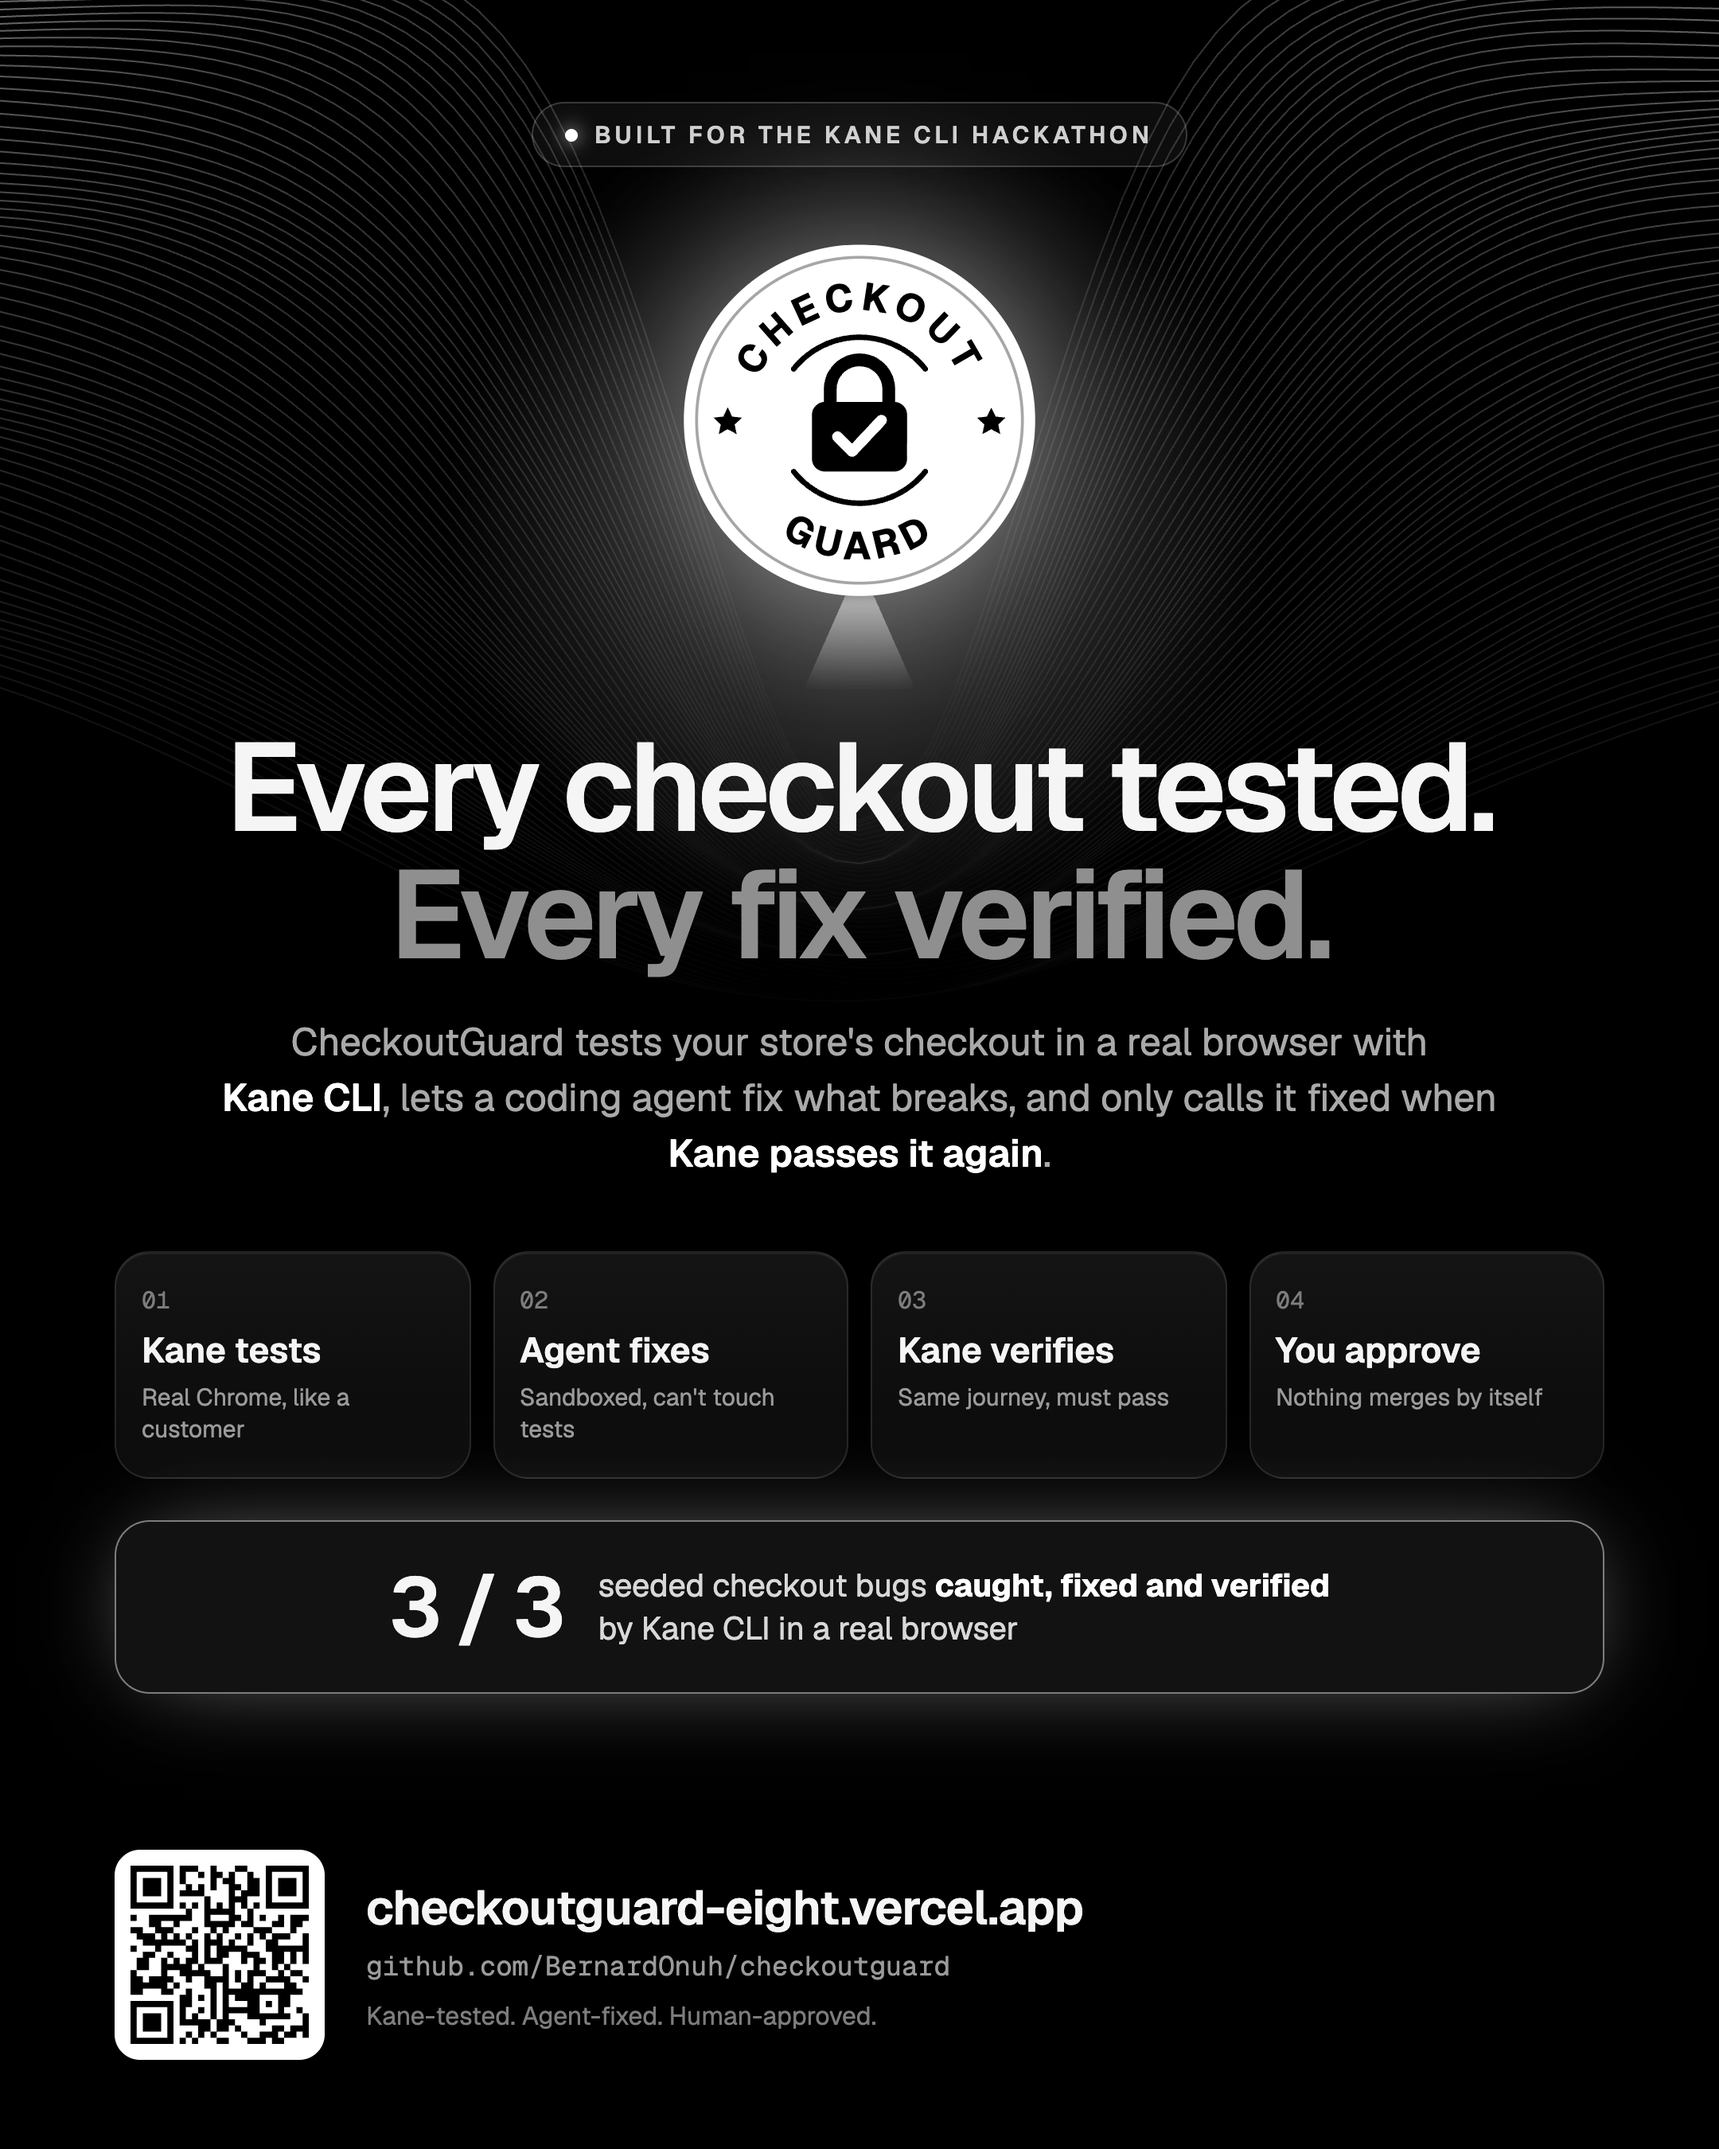
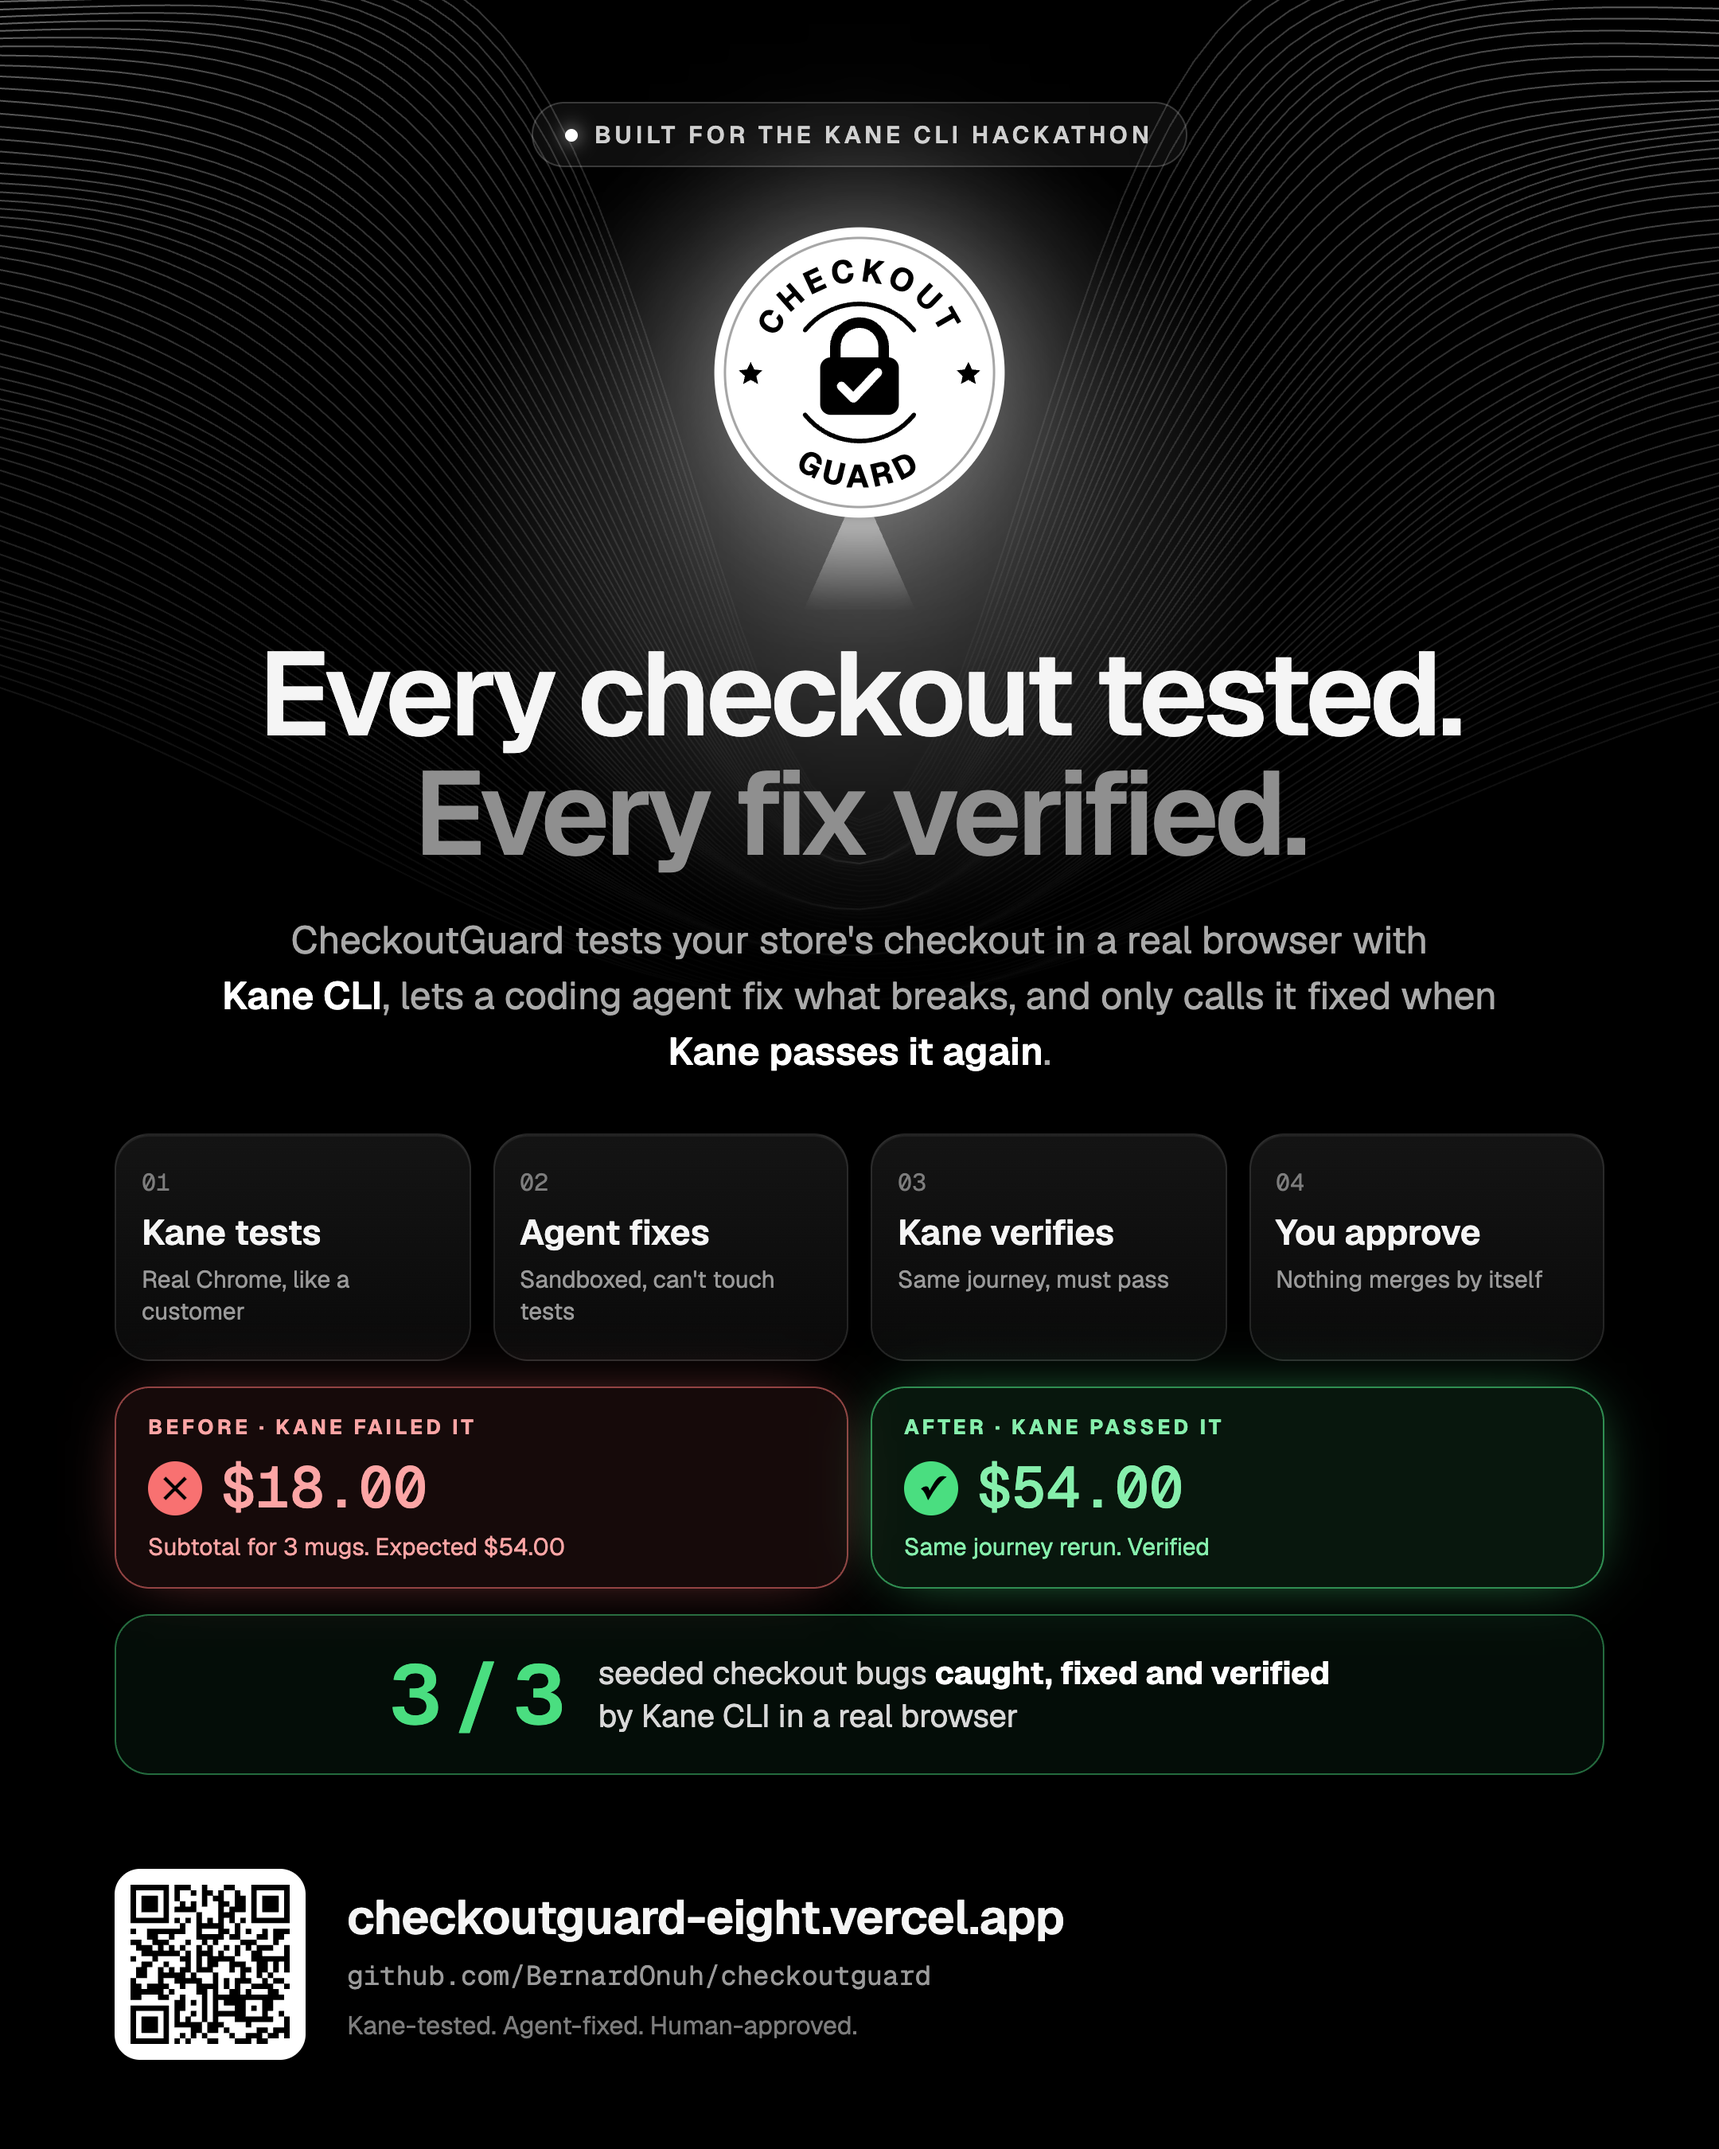
Flyers: red for Kane's failed run, green for the verified rerun

diff --git a/docs/brand/checkoutguard-flyer.html b/docs/brand/checkoutguard-flyer.html
@@ -9,22 +9,33 @@ body{width:1080px;height:1350px;background:#000;color:#f5f5f5;font-family:Geist,
 .wrap{position:relative;height:100%;display:flex;flex-direction:column;align-items:center;padding:64px 72px 56px;text-align:center}
 .pill{display:inline-flex;align-items:center;gap:10px;border:1px solid rgba(255,255,255,.18);background:rgba(255,255,255,.05);border-radius:999px;padding:10px 20px;font-size:15px;font-weight:600;letter-spacing:.16em;color:#cfcfcf}
 .pill i{width:8px;height:8px;border-radius:50%;background:#fff;box-shadow:0 0 12px #fff}
-.badge{width:230px;height:230px;margin-top:44px;filter:drop-shadow(0 0 50px rgba(255,255,255,.5))}
+.badge{width:190px;height:190px;margin-top:34px;filter:drop-shadow(0 0 50px rgba(255,255,255,.5))}
 .beam{width:70px;height:60px;margin-top:-6px;background:linear-gradient(#fff,transparent);clip-path:polygon(38% 0,62% 0,100% 100%,0 100%);opacity:.55;filter:blur(4px)}
-h1{margin-top:22px;font-size:78px;line-height:1.02;letter-spacing:-.035em;font-weight:600}
+h1{margin-top:16px;font-size:74px;line-height:1.02;letter-spacing:-.035em;font-weight:600}
 h1 span{color:#8f8f8f}
 .sub{margin-top:24px;max-width:820px;font-size:24px;line-height:1.45;color:#a9a9a9}
 .sub b{color:#fff;font-weight:600}
-.steps{margin-top:44px;display:grid;grid-template-columns:repeat(4,1fr);gap:14px;width:100%}
+.steps{margin-top:34px;display:grid;grid-template-columns:repeat(4,1fr);gap:14px;width:100%}
 .step{border-radius:22px;border:1px solid rgba(255,255,255,.1);background:linear-gradient(#141414,#0a0a0a);padding:20px 16px;text-align:left;box-shadow:inset 0 1px 0 rgba(255,255,255,.06)}
 .step .n{font-family:'Geist Mono',monospace;font-size:15px;color:#7d7d7d}
 .step .t{margin-top:10px;font-size:22px;font-weight:600;line-height:1.15}
 .step .d{margin-top:6px;font-size:15px;line-height:1.35;color:#9a9a9a}
-.proof{margin-top:26px;width:100%;display:flex;align-items:center;justify-content:center;gap:22px;border-radius:22px;border:1px solid rgba(255,255,255,.45);background:rgba(255,255,255,.07);padding:20px 24px;box-shadow:0 0 60px -20px rgba(255,255,255,.6)}
+.ba{margin-top:16px;width:100%;display:grid;grid-template-columns:1fr 1fr;gap:14px;text-align:left}
+.res{border-radius:22px;padding:16px 20px}
+.res .k{font-size:13px;font-weight:700;letter-spacing:.16em}
+.res .v{margin-top:6px;display:flex;align-items:center;gap:12px;font-family:'Geist Mono',monospace;font-size:36px;font-weight:500}
+.res .v i{font-style:normal;display:grid;place-items:center;width:34px;height:34px;border-radius:50%;font-family:Geist,sans-serif;font-size:20px;font-weight:700;color:#000}
+.res .e{margin-top:4px;font-size:15px}
+.bad{border:1px solid rgba(248,113,113,.55);background:rgba(248,113,113,.09);box-shadow:0 0 40px -18px rgba(248,113,113,.8)}
+.bad .k,.bad .v,.bad .e{color:#fca5a5}.bad .v i{background:#f87171}
+.good{border:1px solid rgba(74,222,128,.6);background:rgba(74,222,128,.1);box-shadow:0 0 40px -16px rgba(74,222,128,.9)}
+.good .k,.good .v,.good .e{color:#86efac}.good .v i{background:#4ade80}
+.proof{margin-top:16px;width:100%;display:flex;align-items:center;justify-content:center;gap:22px;border-radius:22px;border:1px solid rgba(74,222,128,.45);background:rgba(74,222,128,.06);padding:16px 24px}
+.proof .big{color:#4ade80}
 .proof .big{font-size:52px;font-weight:600;letter-spacing:-.03em}
 .proof .txt{text-align:left;font-size:20px;line-height:1.35;color:#d8d8d8}
 .foot{margin-top:auto;width:100%;display:flex;align-items:center;gap:26px;text-align:left}
-#qr{width:132px;height:132px;background:#fff;border-radius:16px;padding:10px}
+#qr{width:120px;height:120px;background:#fff;border-radius:16px;padding:10px}
 #qr svg,#qr img{width:100%;height:100%;display:block}
 .url{font-size:30px;font-weight:600;letter-spacing:-.01em}
 .gh{margin-top:6px;font-family:'Geist Mono',monospace;font-size:17px;color:#9a9a9a}
@@ -59,6 +70,10 @@ h1 span{color:#8f8f8f}
     <div class="step"><div class="n">02</div><div class="t">Agent fixes</div><div class="d">Sandboxed, can't touch tests</div></div>
     <div class="step"><div class="n">03</div><div class="t">Kane verifies</div><div class="d">Same journey, must pass</div></div>
     <div class="step"><div class="n">04</div><div class="t">You approve</div><div class="d">Nothing merges by itself</div></div>
+  </div>
+  <div class="ba">
+    <div class="res bad"><div class="k">BEFORE · KANE FAILED IT</div><div class="v"><i>✕</i>$18.00</div><div class="e">Subtotal for 3 mugs. Expected $54.00</div></div>
+    <div class="res good"><div class="k">AFTER · KANE PASSED IT</div><div class="v"><i>✓</i>$54.00</div><div class="e">Same journey rerun. Verified</div></div>
   </div>
   <div class="proof"><div class="big">3 / 3</div><div class="txt">seeded checkout bugs <b style="color:#fff">caught, fixed and verified</b><br>by Kane CLI in a real browser</div></div>
   <div class="foot">

diff --git a/docs/brand/checkoutguard-x-flyer.html b/docs/brand/checkoutguard-x-flyer.html
@@ -19,14 +19,25 @@ h1 span{color:#8f8f8f}
 .url{margin-top:34px;display:flex;align-items:center;gap:16px}
 .url .btn{background:#fff;color:#000;border-radius:999px;padding:14px 26px;font-size:22px;font-weight:600;box-shadow:0 8px 40px -10px rgba(255,255,255,.7)}
 .url .gh{font-family:'Geist Mono',monospace;font-size:16px;color:#8a8a8a}
-.right{display:flex;flex-direction:column;justify-content:center;gap:14px}
-.step{display:flex;gap:20px;align-items:center;border-radius:22px;border:1px solid rgba(255,255,255,.1);background:linear-gradient(#141414,#0a0a0a);padding:20px 24px;box-shadow:inset 0 1px 0 rgba(255,255,255,.06)}
-.step .n{width:54px;height:54px;flex:none;border-radius:16px;display:grid;place-items:center;font-family:'Geist Mono',monospace;font-size:17px;background:rgba(255,255,255,.06);border:1px solid rgba(255,255,255,.15)}
-.step .t{font-size:24px;font-weight:600}.step .d{margin-top:3px;font-size:17px;color:#9a9a9a}
+.right{display:flex;flex-direction:column;justify-content:center;gap:12px}
+.step{display:flex;gap:20px;align-items:center;border-radius:22px;border:1px solid rgba(255,255,255,.1);background:linear-gradient(#141414,#0a0a0a);padding:15px 22px;box-shadow:inset 0 1px 0 rgba(255,255,255,.06)}
+.step .n{width:48px;height:48px;flex:none;border-radius:16px;display:grid;place-items:center;font-family:'Geist Mono',monospace;font-size:17px;background:rgba(255,255,255,.06);border:1px solid rgba(255,255,255,.15)}
+.step .t{font-size:22px;font-weight:600}.step .d{margin-top:3px;font-size:17px;color:#9a9a9a}
 .step.lit{border-color:rgba(255,255,255,.5);background:rgba(255,255,255,.08);box-shadow:0 0 50px -20px rgba(255,255,255,.7)}
 .step.lit .n{background:#fff;color:#000}
-.proof{margin-top:8px;display:flex;align-items:center;gap:22px;border-radius:22px;border:1px dashed rgba(255,255,255,.35);padding:20px 24px}
-.proof .big{font-size:54px;font-weight:600;letter-spacing:-.03em}
+.ba{display:grid;grid-template-columns:1fr 1fr;gap:12px;margin-top:4px}
+.res{border-radius:20px;padding:14px 18px}
+.res .k{font-size:12px;font-weight:700;letter-spacing:.16em}
+.res .v{margin-top:6px;display:flex;align-items:center;gap:10px;font-family:'Geist Mono',monospace;font-size:30px;font-weight:500}
+.res .v i{font-style:normal;display:grid;place-items:center;width:30px;height:30px;border-radius:50%;font-family:Geist,sans-serif;font-size:18px;font-weight:700;color:#000}
+.res .e{margin-top:4px;font-size:14px}
+.bad{border:1px solid rgba(248,113,113,.55);background:rgba(248,113,113,.09);box-shadow:0 0 40px -18px rgba(248,113,113,.8)}
+.bad .k,.bad .v,.bad .e{color:#fca5a5}.bad .v i{background:#f87171}.bad .v s{text-decoration-thickness:2px}
+.good{border:1px solid rgba(74,222,128,.6);background:rgba(74,222,128,.1);box-shadow:0 0 40px -16px rgba(74,222,128,.9)}
+.good .k,.good .v,.good .e{color:#86efac}.good .v i{background:#4ade80}
+.proof{display:flex;align-items:center;gap:22px;border-radius:22px;border:1px solid rgba(74,222,128,.45);background:rgba(74,222,128,.06);padding:16px 22px}
+.proof .big{color:#4ade80}
+.proof .big{font-size:50px;font-weight:600;letter-spacing:-.03em}
 .proof .txt{font-size:19px;line-height:1.4;color:#cfcfcf}.proof .txt b{color:#fff}
 </style></head><body>
 <svg id="silk" viewBox="0 0 1600 900" preserveAspectRatio="none"></svg>
@@ -60,6 +71,10 @@ h1 span{color:#8f8f8f}
     <div class="step"><div class="n">02</div><div><div class="t">An agent writes the fix</div><div class="d">Sandboxed: no shell, no web, can't touch tests</div></div></div>
     <div class="step lit"><div class="n">03</div><div><div class="t">Kane reruns the same journey</div><div class="d">Only a Kane pass marks it verified</div></div></div>
     <div class="step"><div class="n">04</div><div><div class="t">You approve the merge</div><div class="d">Nothing merges by itself</div></div></div>
+    <div class="ba">
+      <div class="res bad"><div class="k">BEFORE · KANE FAILED IT</div><div class="v"><i>✕</i>$18.00</div><div class="e">Subtotal for 3 mugs. Expected $54.00</div></div>
+      <div class="res good"><div class="k">AFTER · KANE PASSED IT</div><div class="v"><i>✓</i>$54.00</div><div class="e">Same journey rerun. Verified</div></div>
+    </div>
     <div class="proof"><div class="big">3/3</div><div class="txt">seeded checkout bugs <b>caught, fixed and verified</b> by Kane CLI</div></div>
   </div>
 </div>
